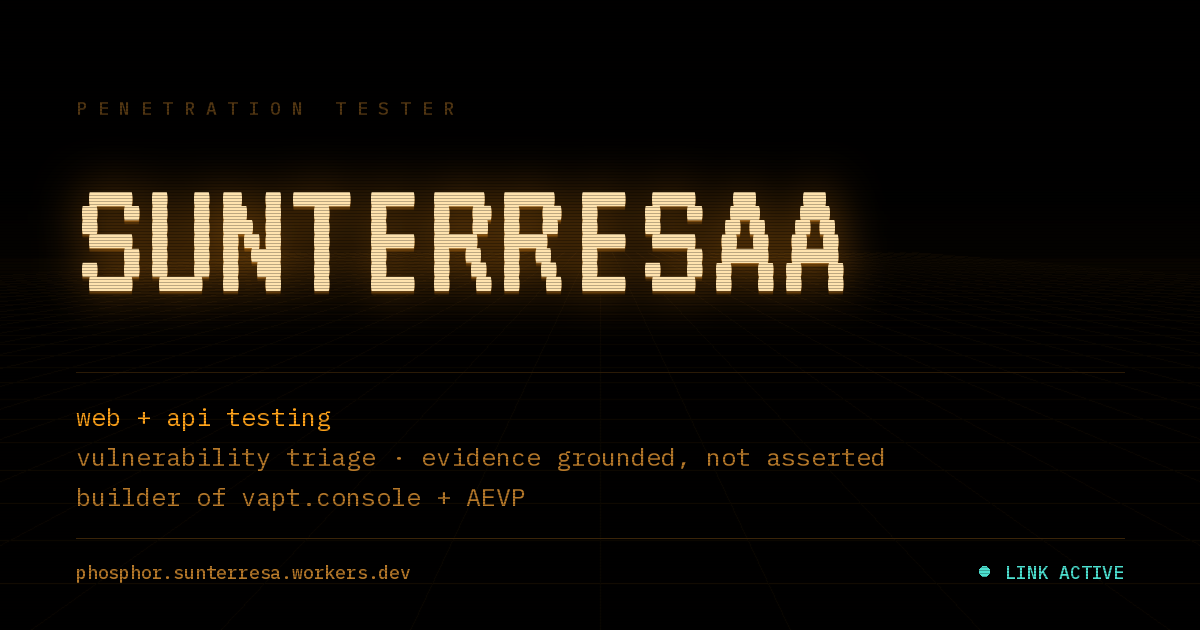
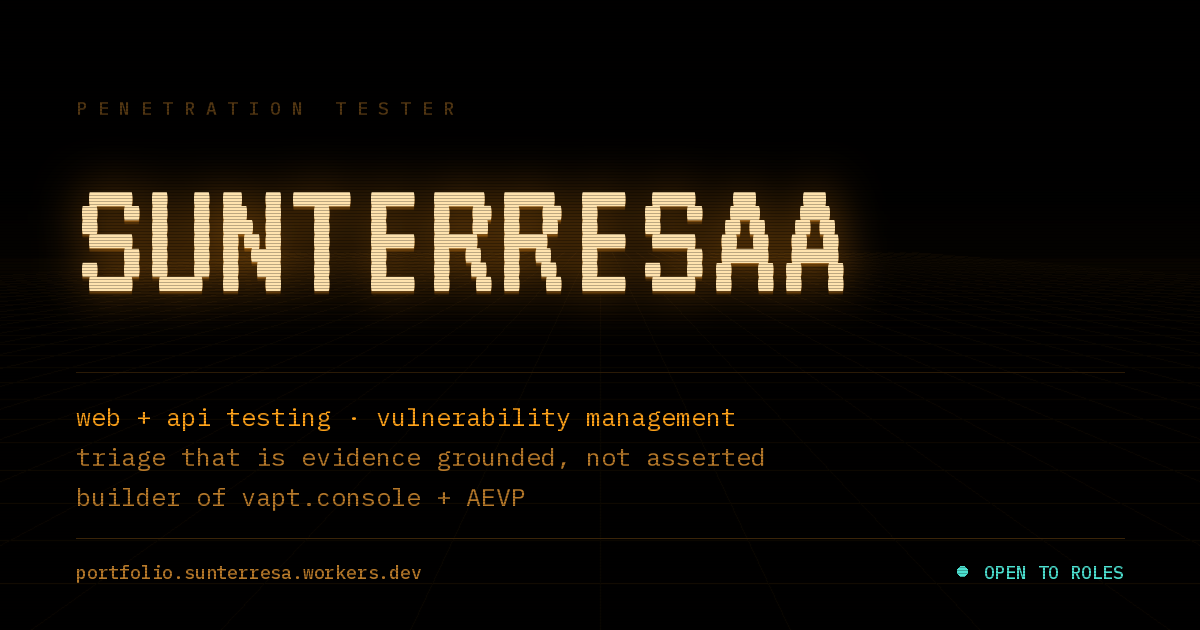
Add files via upload

Changed region(s): [[0.0617, 0.6333, 0.74, 0.754], [0.0617, 0.9048, 0.3392, 0.9349], [0.8017, 0.8746, 0.925, 0.9349]]

diff --git a/public/assets/content.js b/public/assets/content.js
@@ -48,7 +48,7 @@ window.PHOSPHOR = {
   hero: {
     typed: [
       '$ whoami',
-      '  sunterresaa sankar \u2014 penetration tester, airasia',
+      '  sunterresaa sankar \u2014 penetration tester \u00b7 open to roles',
       '$ focus --list',
       '  web + api testing. vulnerability triage. llm pipeline security.',
       '$ scope --status',
@@ -62,9 +62,10 @@ window.PHOSPHOR = {
      ------------------------------------------------------ */
   commands: {
     whoami: [
-      'sunterresaa sankar \u2014 penetration tester, airasia',
+      'sunterresaa sankar \u2014 penetration tester \u00b7 open to roles',
+      'previously airasia (k-youth) \u00b7 merchantrade asia',
       'bcs (hons) cybersecurity, multimedia university \u00b7 cgpa 3.60',
-      'huawei hcia-security v4.0 \u00b7 hcia-ai v3.5'
+      'comptia tech+ \u00b7 huawei hcia-security v4.0 \u00b7 hcia-ai v3.5'
     ],
     stack: [
       'burp suite \u00b7 nessus \u00b7 nmap \u00b7 zap \u00b7 metasploit \u00b7 wireshark \u00b7 beyondtrust',
@@ -94,7 +95,7 @@ window.PHOSPHOR = {
     { g: 'triage',      items: ['cvss v3.1', 'epss', 'cisa kev', 'ssvc', 'owasp top 10', 'api top 10', 'cwe mapping'] },
     { g: 'governance',  items: ['beyondtrust', 'cis benchmarks', 'server hardening', 'privileged access', 'audit readiness'] },
     { g: 'build',       items: ['python', 'javascript', 'typescript', 'react', 'next.js', 'fastapi', 'node', 'solidity', 'docker', 'postgres', 'linux'] },
-    { g: 'certs',       items: ['hcia-security v4.0', 'hcia-ai v3.5', 'bcs (hons) cybersecurity'] }
+    { g: 'certs',       items: ['comptia tech+', 'hcia-security v4.0', 'hcia-ai v3.5', 'red teaming l0 workshop \u00b7 0day academy', 'bcs (hons) cybersecurity'] }
   ],
 
   /* career trace ------------------------------------------
@@ -114,10 +115,12 @@ window.PHOSPHOR = {
       note: 'FYP <b>DocuChain</b> \u2014 blockchain document verification on Ethereum + IPFS', state: 'up' },
     { t: '[  0x4D455243]', when: 'Jul \u2013 Dec 2025', what: 'InfoSec Compliance Intern', where: 'Merchantrade Asia',
       note: 'privileged-access reviews \u00b7 CIS hardening \u00b7 audit readiness at a licensed FSI', state: 'up' },
-    { t: '[  0x4B594F55]', when: 'Apr \u2013 Jul 2026', what: 'K-Youth Development Programme', where: 'Khazanah Nasional Berhad',
+    { t: '[  0x4B594F55]', when: 'Apr \u2013 May 2026', what: 'K-Youth Development Programme', where: 'Khazanah Nasional Berhad',
       note: 'national talent programme \u2014 industry readiness across security + governance', state: 'up' },
-    { t: '[  now.online]', when: 'May 2026 \u2192', what: 'Penetration Tester', where: 'AirAsia',
-      note: 'weekly VA + manual web testing on production \u00b7 triage \u00b7 remediation to close', state: 'active' }
+    { t: '[  0x41495241]', when: 'Apr \u2013 Aug 2026', what: 'Penetration Tester', where: 'AirAsia \u00b7 via K-Youth',
+      note: 'weekly VA + manual web testing on production \u00b7 triage \u00b7 remediation to close', state: 'up' },
+    { t: '[  now.online]', when: 'Sep 2026 \u2192', what: 'Open to roles', where: 'penetration testing \u00b7 vulnerability management \u00b7 AI security',
+      note: 'building <b>AEVP</b> and <b>vapt.console</b> in the meantime', state: 'active' }
   ],
 
   /* register --------------------------------------------- */
@@ -140,9 +143,9 @@ window.PHOSPHOR = {
       // links: [{ l: 'source', u: 'https://github.com/Sr7nyx/aevp-range' }]
       links: [] },
 
-    { s: 3, id: 'REG-003', title: 'Production testing at AirAsia', status: 'ongoing',
+    { s: 3, id: 'REG-003', title: 'Production testing at AirAsia', status: 'closed',
       lead: 'weekly VA + manual testing on production \u00b7 severity by business impact \u00b7 remediation tracked to close',
-      body: 'Weekly automated vulnerability assessment and manual web application testing against production assets, driven off active security tickets. I validate what the scanners raise, assign severity against business impact rather than default scanner ratings, and work with the IT and application teams through patching, configuration fixes and retest.<br><br>The reporting side is half the job: vulnerability reports, ticket lifecycle, and remediation KPIs that show whether risk is actually going down.',
+      body: 'April to August 2026: weekly automated vulnerability assessment and manual web application testing against production assets, driven off active security tickets. I validated what the scanners raised, assigned severity against business impact rather than default scanner ratings, and worked with the IT and application teams through patching, configuration fixes and retest.<br><br>The reporting side was half the job: vulnerability reports, ticket lifecycle, and remediation KPIs that showed whether risk was actually going down.',
       meta: ['burp suite', 'nessus', 'cvss v3.1', 'remediation tracking'],
       links: [] },
 

diff --git a/public/index.html b/public/index.html
@@ -7,7 +7,7 @@
 <meta charset="utf-8">
 <meta name="viewport" content="width=device-width, initial-scale=1, viewport-fit=cover">
 <title>Sunterresaa Sankar — penetration tester</title>
-<meta name="description" content="Penetration tester at AirAsia. Web and API assessments, vulnerability triage, and vapt.console — an AI-assisted VAPT platform built around evidence grounding and false-positive reduction.">
+<meta name="description" content="Penetration tester, open to roles. Web and API assessments, vulnerability triage, and vapt.console — an AI-assisted VAPT platform built around evidence grounding and false-positive reduction.">
 <meta name="color-scheme" content="dark">
 <meta name="theme-color" content="#070503">
 
@@ -34,15 +34,15 @@
   <span class="hide-sm" id="fx" aria-label="Scroll effect"></span>
   <span class="spacer"></span>
   <span class="hide-sm">UPTIME <b id="up">00:00:00</b></span>
-  <span class="live">LINK ACTIVE</span>
+  <span class="live">OPEN TO ROLES</span>
 </div>
 
 <div id="tube">
 
   <section id="hero" class="pane">
-    <p class="eyebrow">Penetration testing &middot; Selangor, Malaysia</p>
+    <p class="eyebrow">Penetration testing &middot; Selangor, Malaysia &middot; open to roles</p>
     <h1 class="callsign">SUNTERRESAA</h1>
-    <p class="tagline">Penetration tester at AirAsia, testing production web assets every week. I build the tooling I wanted to exist — <em>vapt.console</em>, which puts a sceptical reviewer between a scanner and an analyst’s time.</p>
+    <p class="tagline">Until August 2026 I tested AirAsia’s production web assets every week. I build the tooling I wanted to exist — <em>vapt.console</em>, which puts a sceptical reviewer between a scanner and an analyst’s time.</p>
     <div id="typed"><span class="caret"></span></div>
     <div id="scrollcue" aria-hidden="true">scroll <span>↓</span></div>
   </section>
@@ -121,7 +121,7 @@
 
   <section class="pane" id="contact-sec">
     <p class="eyebrow">Contact</p>
-    <p class="tagline">Open to conversations about offensive security, vulnerability management, and the security of LLM pipelines. Authorised engagements only.</p>
+    <p class="tagline">Open to roles in penetration testing, vulnerability management and AI security &mdash; and to conversations about the security of LLM pipelines. Authorised engagements only.</p>
     <ul class="links">
       <li><a href="mailto:sunterresa@gmail.com">email</a></li>
       <li><a href="https://www.linkedin.com/in/sunterresaa-sankar" rel="noopener noreferrer me">linkedin</a></li>
